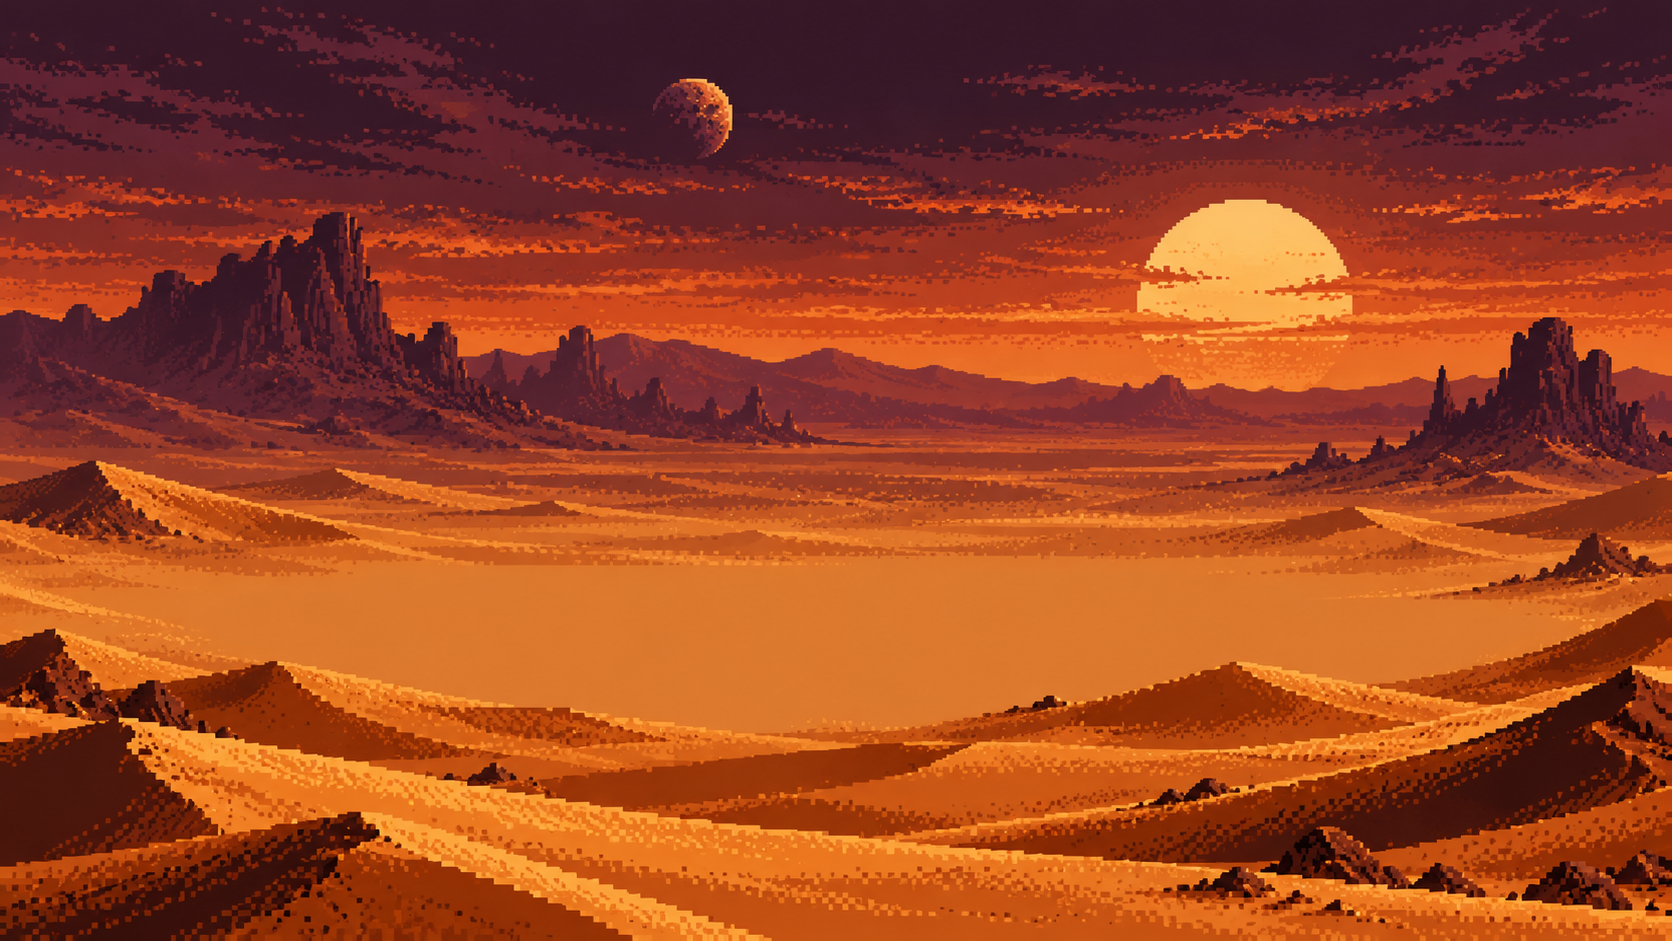
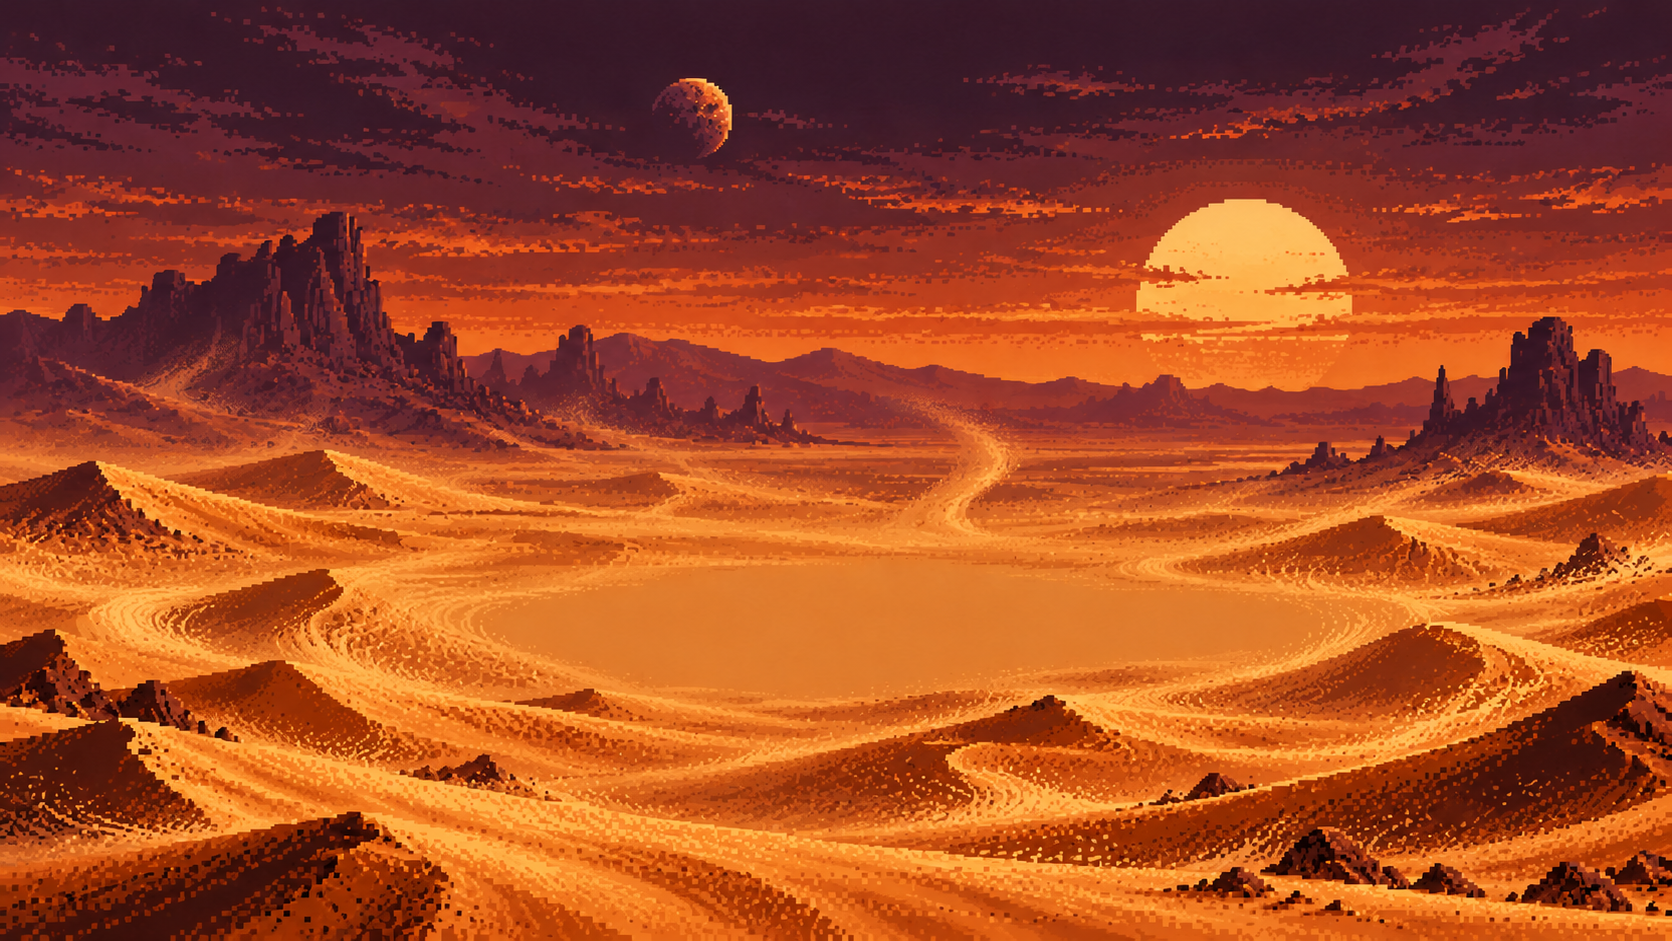
Move Janne right and animate sandworm from left

diff --git a/index.html b/index.html
@@ -21,9 +21,9 @@
 .janne-portrait{display:block;image-rendering:pixelated}
 .scene{background:#8f4b43}
 .scene-bg{position:absolute;inset:0;width:100%;height:100%;object-fit:cover;image-rendering:pixelated;transition:opacity .35s ease}
-.worm-layer{position:absolute;z-index:1;left:30%;bottom:-35%;width:50%;height:180%;object-fit:contain;image-rendering:pixelated;opacity:0;transform:translateX(-24%) translateY(8px) scale(.92);transition:opacity .2s ease,transform 1.8s cubic-bezier(.2,.8,.2,1)}
-.active .worm-layer{opacity:1;transform:translateX(18%) translateY(0) scale(1)}
-.portrait-overlay{position:absolute;z-index:2;left:4%;bottom:0;width:46%;height:100%;object-fit:contain;object-position:center bottom;image-rendering:pixelated;pointer-events:none}
+.worm-layer{position:absolute;z-index:1;left:-7%;bottom:-35%;width:52%;height:180%;object-fit:contain;image-rendering:pixelated;opacity:0;transform:translateX(-75%) translateY(8px) scale(.92);transition:opacity .2s ease,transform 1.8s cubic-bezier(.2,.8,.2,1)}
+.active .worm-layer{opacity:1;transform:translateX(0) translateY(0) scale(1)}
+.portrait-overlay{position:absolute;z-index:2;right:2%;bottom:0;width:46%;height:100%;object-fit:contain;object-position:center bottom;image-rendering:pixelated;pointer-events:none}
 .scene>svg{display:none}
 @media(prefers-reduced-motion:reduce){.worm-layer{transition:none!important;transform:none!important}}
 </style></head><body><main class="card" id="card"><div class="eyebrow">HOUSE OF TURENKI PRESENTS</div><h1>JANNE 50</h1><h2>DUKE OF TURENKI</h2>
